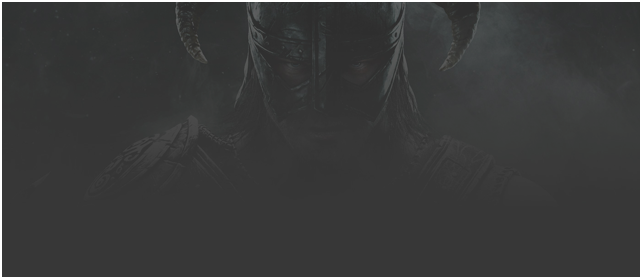
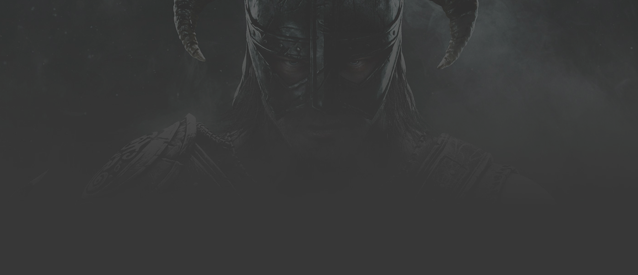
Allow manual login by copy&pasting api key

Changed region(s): [[0.0, 0.0, 1.0, 1.0]]

diff --git a/src/extensions/nexus_integration/views/LoginDialog.tsx b/src/extensions/nexus_integration/views/LoginDialog.tsx
@@ -4,16 +4,21 @@ import Spinner from '../../../controls/Spinner';
 import { Button, IconButton } from '../../../controls/TooltipControls';
 import { ComponentEx, connect, translate } from '../../../util/ComponentEx';
 import { UserCanceled } from '../../../util/CustomErrors';
+import opn from '../../../util/opn';
 
 import { setUserAPIKey } from '../actions/account';
+import { setLoginId } from '../actions/session';
 import { IValidateKeyData } from '../types/IValidateKeyData';
+import { getPageURL } from '../util/sso';
 
 import { clipboard } from 'electron';
+import { TranslationFunction } from 'i18next';
 import * as React from 'react';
-import { Modal, FormControl, ControlLabel, FormGroup, InputGroup, InputGroupAddon } from 'react-bootstrap';
+import { ControlLabel, FormControl, FormGroup, InputGroup, Modal } from 'react-bootstrap';
 import * as Redux from 'redux';
 import { ThunkDispatch } from 'redux-thunk';
-import { getPageURL } from '../util/sso';
+
+const API_ACCESS_URL = 'https://www.nexusmods.com/users/myaccount?tab=api+access';
 
 export interface IBaseProps {
   visible: boolean;
@@ -30,13 +35,67 @@ interface IConnectedProps {
 interface IActionProps {
   onSetAPIKey: (APIKey: string) => void;
   onShowLoginError: (message: string) => void;
+  onResetLoginId: () => void;
+}
+
+interface ILoginInProgressProps {
+  t: TranslationFunction;
+  loginId: string;
+  onCopyToClipboard: () => void;
+}
+
+function LoginInProgress(props: ILoginInProgressProps) {
+  const { t, loginId, onCopyToClipboard } = props;
+  return (
+    <form>
+      <FormGroup>
+        <ControlLabel>
+          {t('Vortex should have opened the following url in your default browser. '
+            + 'If that failed, please copy the url into your browser manually.')}
+        </ControlLabel>
+        <InputGroup>
+          <FormControl
+            type='text'
+            value={getPageURL(loginId)}
+            disabled={true}
+          />
+          <InputGroup.Addon>
+            <IconButton
+              className='btn-embed'
+              icon='clipboard'
+              tooltip={t('Copy to clipboard')}
+              onClick={onCopyToClipboard}
+            />
+          </InputGroup.Addon>
+        </InputGroup>
+      </FormGroup>
+    </form>
+  );
 }
 
 type IProps = IBaseProps & IConnectedProps & IActionProps;
 
-class LoginDialog extends ComponentEx<IProps, {}> {
+class LoginDialog extends ComponentEx<IProps, { troubleshoot: boolean, apiKeyInput: string }> {
+  constructor(props: IProps) {
+    super(props);
+
+    this.initState({
+      troubleshoot: false,
+      apiKeyInput: '',
+    });
+  }
+
+  public componentWillReceiveProps(newProps: IProps) {
+    if (newProps.visible && !this.props.visible) {
+      this.nextState.troubleshoot = false;
+      this.nextState.apiKeyInput = '';
+    }
+  }
+
   public render(): JSX.Element {
+    const { troubleshoot } = this.state;
     const { t, loginId, visible } = this.props;
+
     return (
       <Modal id='login-dialog' show={visible || (loginId !== undefined)} onHide={this.hide}>
         <Modal.Body>
@@ -47,51 +106,115 @@ class LoginDialog extends ComponentEx<IProps, {}> {
             tooltip={t('Close')}
             icon='close'
           />
-          <div className='login-content'>
-            <Icon
-              className='nexus-header'
-              name='nexus-header'
-              svgStyle='#login-dialog path { fill: black }'
-            />
-            <div className='login-instructions'>
-              {t('Please log in or register on the Nexus Mods website to log in on vortex!')}
-            </div>
-            {loginId !== undefined ? (
-              <form>
-                <FormGroup>
-                  <ControlLabel>
-                  {t('Vortex should have opened the following url in your default browser. If that failed, please copy the url '
-                    + 'into your browser manually.')}
-                  </ControlLabel>
-                  <InputGroup>
-                    <FormControl
-                      type="text"
-                      value={this.getLoginUrl()}
-                      disabled={true}
-                    />
-                    <InputGroup.Addon>
-                      <IconButton className='btn-embed' icon='clipboard' tooltip={t('Copy to clipboard')} onClick={this.copyUrlToClipboard} />
-                    </InputGroup.Addon>
-                  </InputGroup>
-                </FormGroup>
-              </form>
-            ) : null}
-            <Button
-              onClick={this.login}
-              tooltip={t('Opens the Nexus Mods page in your default browser')}
-              disabled={loginId !== undefined}
-            >
-              {(loginId !== undefined) ? (
-                <div>
-                  <Spinner />
-                  {t('Please click "Authorise" on the website')}
-                </div>
-              ) : t('Log In On Website')}
-            </Button>
-          </div>
+          {
+            troubleshoot
+              ? this.renderTroubleshoot()
+              : this.renderRegular()
+          }
         </Modal.Body>
       </Modal>
     );
+}
+
+  private renderRegular(): JSX.Element {
+    const { t, loginId } = this.props;
+    return (
+      <div className='login-content'>
+        <Icon
+          className='nexus-header'
+          name='nexus-header'
+          svgStyle='#login-dialog path { fill: black }'
+        />
+        <div className='login-instructions'>
+          {t('Please log in or register on the Nexus Mods website to log in on vortex!')}
+        </div>
+        {loginId !== undefined ? [
+          <LoginInProgress
+            key='login-in-progress'
+            t={t}
+            loginId={loginId}
+            onCopyToClipboard={this.copyToClipboard}
+          />,
+          <Button
+            key='troubleshoot-button'
+            onClick={this.troubleshoot}
+            tooltip={t('Use if the regular login doesn\'t work')}
+          >
+            {t('Troubleshoot')}
+          </Button>,
+        ] : null}
+        <Button
+          onClick={this.login}
+          tooltip={t('Opens the Nexus Mods page in your default browser')}
+          disabled={loginId !== undefined}
+        >
+          {(loginId !== undefined) ? (
+            <div>
+              <Spinner />
+              {t('Please click "Authorise" on the website')}
+            </div>
+          ) : t('Log In On Website')}
+        </Button>
+      </div>
+    );
+  }
+
+  private renderTroubleshoot() {
+    const { apiKeyInput } = this.state;
+    const { t } = this.props;
+    return (
+      <div className='login-content'>
+        <Icon
+          className='nexus-header'
+          name='nexus-header'
+          svgStyle='#login-dialog path { fill: black }'
+        />
+        <h3>
+          {t('If you\'re having trouble logging in in the normal way, there is another way.')}
+        </h3>
+        <ul style={{ textAlign: 'left' }}>
+          <li>
+            {t('Open the Nexus Mods page and log in if you\'re not already.')}
+          </li>
+          <li>
+            {t('Open this url:')}
+            {' '}<a onClick={this.openApiAccess}>{API_ACCESS_URL}</a>{' '}
+          </li>
+          <li>
+            {t('If there is a button "REQUEST AN API KEY" button alongside '
+              + '"Vortex", click it.')}
+          </li>
+          <li>
+            {t('You should now see a text field alongside Vortex with a long series of seemingly '
+             + 'random characters (your API Key) with three buttons below it. '
+             + 'Of these buttons, click the right-most one (Copy API Key).')}
+          </li>
+          <li>
+            <FormControl
+              componentClass='textarea'
+              style={{display: 'inline'}}
+              placeholder={t('Paste that api key into this input field')}
+              value={apiKeyInput}
+              onChange={this.updateAPIKey}
+            />
+          </li>
+          <li>
+            {t('Then press')}
+            {' '}
+            <Button
+              onClick={this.applyKey}
+              tooltip={t('Save API Key')}
+            >
+              {t('Save')}
+            </Button>
+          </li>
+        </ul>
+      </div>
+    );
+  }
+
+  private openApiAccess = () => {
+    opn(API_ACCESS_URL).catch(() => null);
   }
 
   private hide = () => {
@@ -100,22 +223,35 @@ class LoginDialog extends ComponentEx<IProps, {}> {
     onHide();
   }
 
+  private updateAPIKey = (evt: any) => {
+    this.nextState.apiKeyInput = evt.target.value;
+  }
+
+  private applyKey = () => {
+    const { apiKeyInput } = this.state;
+    const { onHide, onResetLoginId, onSetAPIKey } = this.props;
+    onSetAPIKey(apiKeyInput);
+    onResetLoginId();
+    onHide();
+  }
+
+  private troubleshoot = () => {
+    this.nextState.troubleshoot = true;
+  }
+
+  private copyToClipboard() {
+    clipboard.writeText(getPageURL(this.props.loginId));
+  }
+
   private login = () => {
     const { onHide } = this.props;
     this.context.api.events.emit('request-nexus-login', (err: Error) => {
       if ((err !== null) && !(err instanceof UserCanceled)) {
-        this.context.api.showErrorNotification('Failed to get access key', err, { allowReport: false });
+        this.context.api.showErrorNotification(
+          'Failed to get access key', err, { allowReport: false });
       }
       onHide();
     });
-  }
-
-  private getLoginUrl() {
-    return getPageURL(this.props.loginId);
-  }
-
-  private copyUrlToClipboard = () => {
-    clipboard.writeText(this.getLoginUrl());
   }
 }
 
@@ -133,6 +269,7 @@ function mapDispatchToProps(dispatch: ThunkDispatch<any, null, Redux.Action>): I
     onShowLoginError:
     (message: string) => dispatch(showDialog('error', 'Error', { message },
                                              [ { label: 'Close' } ])),
+    onResetLoginId: () => dispatch(setLoginId(undefined)),
   };
 }
 

diff --git a/src/stylesheets/vortex/dialog-login.scss b/src/stylesheets/vortex/dialog-login.scss
@@ -14,6 +14,8 @@
 
   .modal-content {
     background: url('assets/images/log-in-bg.png');
+    background-repeat: no-repeat;
+    background-color: #373737;
   }
 
   .modal-body {
